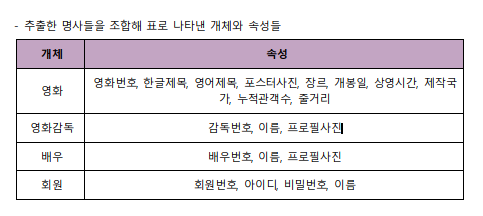
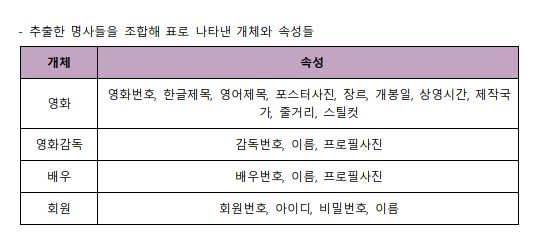
Update ERD

Changed region(s): [[0.0311, 0.0833, 0.9627, 0.9444], [0.4037, 0.6944, 0.7143, 0.75], [0.528, 0.2222, 0.6211, 0.2778]]

diff --git a/_posts/2024-02-04-movie-01.md b/_posts/2024-02-04-movie-01.md
@@ -22,7 +22,7 @@ tags: [DB 설계]
 
 **현재 상영 중인 영화에 대한 정보**를 제공해주는 웹 사이트를 만들어보겠습니다.
 
-MVP 모델의 기능으로 로그인, 회원가입, 영화 정보 제공 3가지를 정했습니다.
+초기 모델의 기능으로 **로그인**, **회원가입**, **영화 정보 제공** 3가지를 정했습니다.
 
 ---
 
@@ -31,7 +31,7 @@ MVP 모델의 기능으로 로그인, 회원가입, 영화 정보 제공 3가지
 1. 사용자는 홈페이지에 접속합니다.
 2. 회원이 아닌 사용자는 회원가입을 먼저 진행합니다.
 3. 로그인 성공 시 현재 상영 중인 영화 목록을 보여줍니다.
-4. 사용자는 마우스 클릭을 통해 영화를 선택합니다.
+4. 사용자는 영화를 선택합니다.
 5. 정보 제공 화면으로 넘어가며 사용자는 영화에 대한 자세한 정보를 볼 수 있습니다.
 
 ---
@@ -50,10 +50,10 @@ MVP 모델의 기능으로 로그인, 회원가입, 영화 정보 제공 3가지
   - 개봉일
   - 상영시간
   - 제작국가
-  - 누적관객수
   - 영화감독 (이름, 프로필사진)
   - 배우 (이름, 프로필사진)
   - 줄거리
+  - 스틸컷
 
 ---
 
@@ -67,7 +67,7 @@ MVP 모델의 기능으로 로그인, 회원가입, 영화 정보 제공 3가지
 
 먼저 요구사항을 정리합니다.
 
-1. 영화에 대해서는 포스터사진, 한글제목, 영어제목, 개봉일, 상영시간, 제작국가, 누적관객수, 줄거리, 장르, 배우, 감독 등의 정보가 유지되어야합니다.
+1. 영화에 대해서는 포스터사진, 한글제목, 영어제목, 개봉일, 상영시간, 제작국가, 줄거리, 스틸컷, 장르, 배우, 감독 등의 정보가 유지되어야합니다.
 
 2. 영화감독에 대해서는 이름, 프로필사진 등의 정보가 유지되어야합니다.
 
@@ -75,7 +75,7 @@ MVP 모델의 기능으로 로그인, 회원가입, 영화 정보 제공 3가지
 
 4. 배우에 대해서는 이름, 프로필사진 등의 정보가 유지되어야 합니다.
 
-5. 한 영화에는 여러 배우들이 출연할 수 있으며 극중이름과 배역이 정해집니다.
+5. 한 영화에는 여러 배우들이 출연할 수 있습니다.
 
 6. 회원에 대해서는 아이디, 비밀번호, 이름 등의 정보가 유지되어야합니다.
 
@@ -83,7 +83,7 @@ MVP 모델의 기능으로 로그인, 회원가입, 영화 정보 제공 3가지
 
 요구사항에서 명사들을 추출해 개체와 속성을 작성합니다.
 
-- 요구사항 1번에서 **영화 엔티티**의 속성으로 **영화번호**, **한글제목**, **영어제목**, **포스터사진**, **장르**, **개봉일**, **상영시간**, **제작국가**, **누적관객수**, **줄거리**를 얻을 수 있습니다.
+- 요구사항 1번에서 **영화 엔티티**의 속성으로 **영화번호**, **한글제목**, **영어제목**, **포스터사진**, **장르**, **개봉일**, **상영시간**, **제작국가**, **줄거리**, **스틸컷**를 얻을 수 있습니다.
 
 - 요구사항 2번에서 **영화감독 엔티티**의 속성으로 **감독번호**, **이름**, **프로필사진**을 얻을 수 있습니다.
 
@@ -102,8 +102,6 @@ MVP 모델의 기능으로 로그인, 회원가입, 영화 정보 제공 3가지
 - 요구사항 3번에서 영화와 영화감독의 관계는 **M : N**임을 알 수 있습니다.
 
 - 요구사항 5번에서 영화와 배우의 관계는 **M : N**임을 알 수 있습니다.
-
-  > 중간 엔티티의 속성으로 극중이름, 배역을 부여합니다.
 
 ![movie-relation](/assets/img/movie-relation.png){: .normal}
 
@@ -127,6 +125,8 @@ ER 다이어그램을 기반으로 테이블 명세서를 작성하기전 정규
   (예 : 액션, 멜로, 애니매이션 등)
 
   따라서, 중간 테이블을 두어 관리합니다.
+
+  > 스틸컷도 영화마다 5장 이상 존재하지만 문자열로 한번에 저장할 예정이므로 장르만 분할합니다.
 
 - **2NF**
 

diff --git a/_posts/2024-02-09-movie-02.md b/_posts/2024-02-09-movie-02.md
@@ -321,7 +321,6 @@ var insertData = async (urlList, page) => {
 
       let movieData = {};
       let genreData = [];
-      let cutData = [];
 
       console.log(`${cnt++} / ${total} 진행 중 ...`);
 
@@ -417,7 +416,10 @@ var insertData = async (urlList, page) => {
       // 포토 페이지가 없을 경우 index는 0
       index = navArr.indexOf("포토") + 1;
 
-      movieData.movie_poster = "";
+      movieData.poster = "";
+      movieData.stillCut = "";
+
+      let stillCutArr = [];
 
       if (index != 0) {
         await page.waitForSelector(
@@ -450,10 +452,10 @@ var insertData = async (urlList, page) => {
               }
             );
 
-            movieData.movie_poster = await getImgUrl(
+            movieData.poster = await getImgUrl(
               posterUrl,
               movieData.movie_nm_en,
-              `${movieData.movie_nm_en}/poster`
+              `movie/${movieData.movie_nm_en}/poster`
             );
           } else if (checked == "스틸컷") {
             // 영화 스틸 컷도 추출 (추가로 테이블 명세서 작성 필요)
@@ -473,15 +475,18 @@ var insertData = async (urlList, page) => {
               let newImgUrl = await getImgUrl(
                 imgUrl,
                 `${movieData.movie_nm_en}_${i}`,
-                `${movieData.movie_nm_en}/stillcut`
+                `movie/${movieData.movie_nm_en}/stillcut`
               );
 
-              cutData.push(newImgUrl);
+              stillCutArr.push(newImgUrl);
             }
+
+            movieData.stillCut = JSON.stringify(stillCutArr);
           }
         }
       }
-      // ************************************
+
+      // **********************************************************
       // movie 테이블 삽입
       let movieId = await movieStorage.insertMovie(movieData);
 
@@ -496,14 +501,18 @@ var insertData = async (urlList, page) => {
         await movieStorage.insertMovieAndGenre(movieId, genreId);
       }
 
-      // photo 테이블, 연결 테이블 삽입
-      for (let photo of cutData) {
-        let photoId = await movieStorage.insertPhoto(photo);
+      // // photo 테이블, 연결 테이블 삽입
+      // for (let photo of cutData) {
+      //   // let isExist = await movieStorage.existPhotoNm(photo);
 
-        await movieStorage.insertMovieAndPhoto(movieId, photoId);
-      }
+      //   // let photoId = isExist ? await movieStorage.getPhotoId(photo) : await movieStorage.insertPhoto(photo);
 
-      // ***********************************
+      //   let photoId = await movieStorage.insertPhoto(photo);
+
+      //   await movieStorage.insertMovieAndPhoto(movieId, photoId);
+      // }
+
+      // *********************************************************
       index = navArr.indexOf("감독/출연") + 1;
 
       await page.waitForSelector(
@@ -544,13 +553,9 @@ var insertData = async (urlList, page) => {
           imgUrl =
             imgName == "이미지 준비중"
               ? "c:\\workspace\\project\\Movie-Story\\server\\src\\public\\img\\movie\\이미지 준비중.png"
-              : await getImgUrl(
-                  imgUrl,
-                  imgName,
-                  `${movieData.movie_nm_en}/${role}`
-                );
+              : await getImgUrl(imgUrl, imgName, `${role}`);
 
-          // ***********************************
+          // **********************************************************
           // actor, director 테이블 삽입
           let isExist = await movieStorage.existCastNm(CastNm, role);
 

diff --git a/_posts/2024-02-13-movie-03.md b/_posts/2024-02-13-movie-03.md
@@ -6,7 +6,53 @@ categories: [Project, Movie Story]
 tags: [Design]
 ---
 
-# 데이터 추출 스케줄링 & Express RESTFul API 서버 구축 준비
+# express 모듈 기반으로 RESTFul API 서버를 구현해보자.
+
+---
+
+## express + MVC
+
+> 참고 글 : [MVC 패턴](https://psmin1994.github.io/posts/mvc/)
+
+참고 글을 토대로 MVC 패턴을 활용해 구현해보겠습니다.
+
+먼저 server 폴더를 만들고 `npm init`을 실행하여 npm을 사용할 수 있는 초기 환경을 설정합니다.
+
+View 부분으로는 React를 활용할 예정이므로 **Router**, **Controller**, **Model**을 구현해보겠습니다.
+
+---
+
+### 폴더 구성
+
+> server
+>
+> > scraping
+> >
+> > logs
+> >
+> > bin
+> >
+> > > www
+> >
+> > src
+> >
+> > > config
+> > >
+> > > controllers
+> > >
+> > > models
+> > >
+> > > routes
+> >
+> > .env
+> >
+> > app.js
+
+---
+
+## 서버 실행
+
+express 모듈
 
 ---
 
